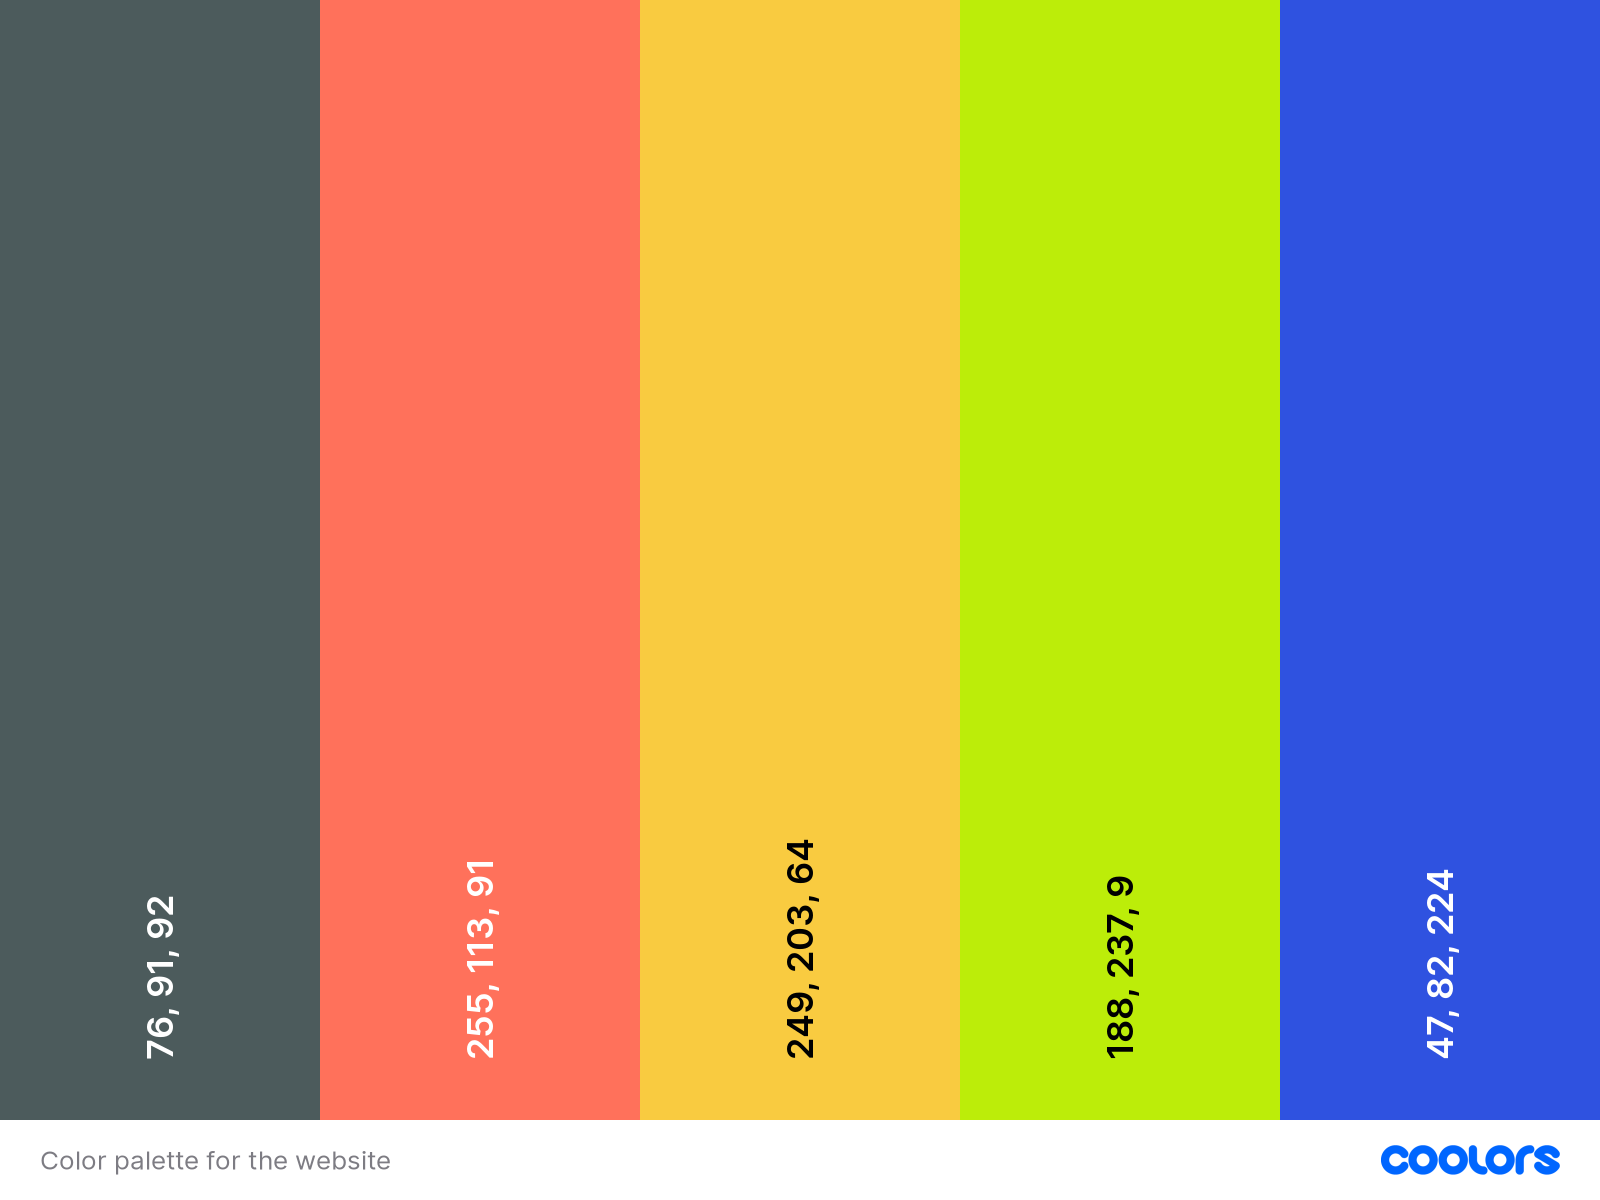
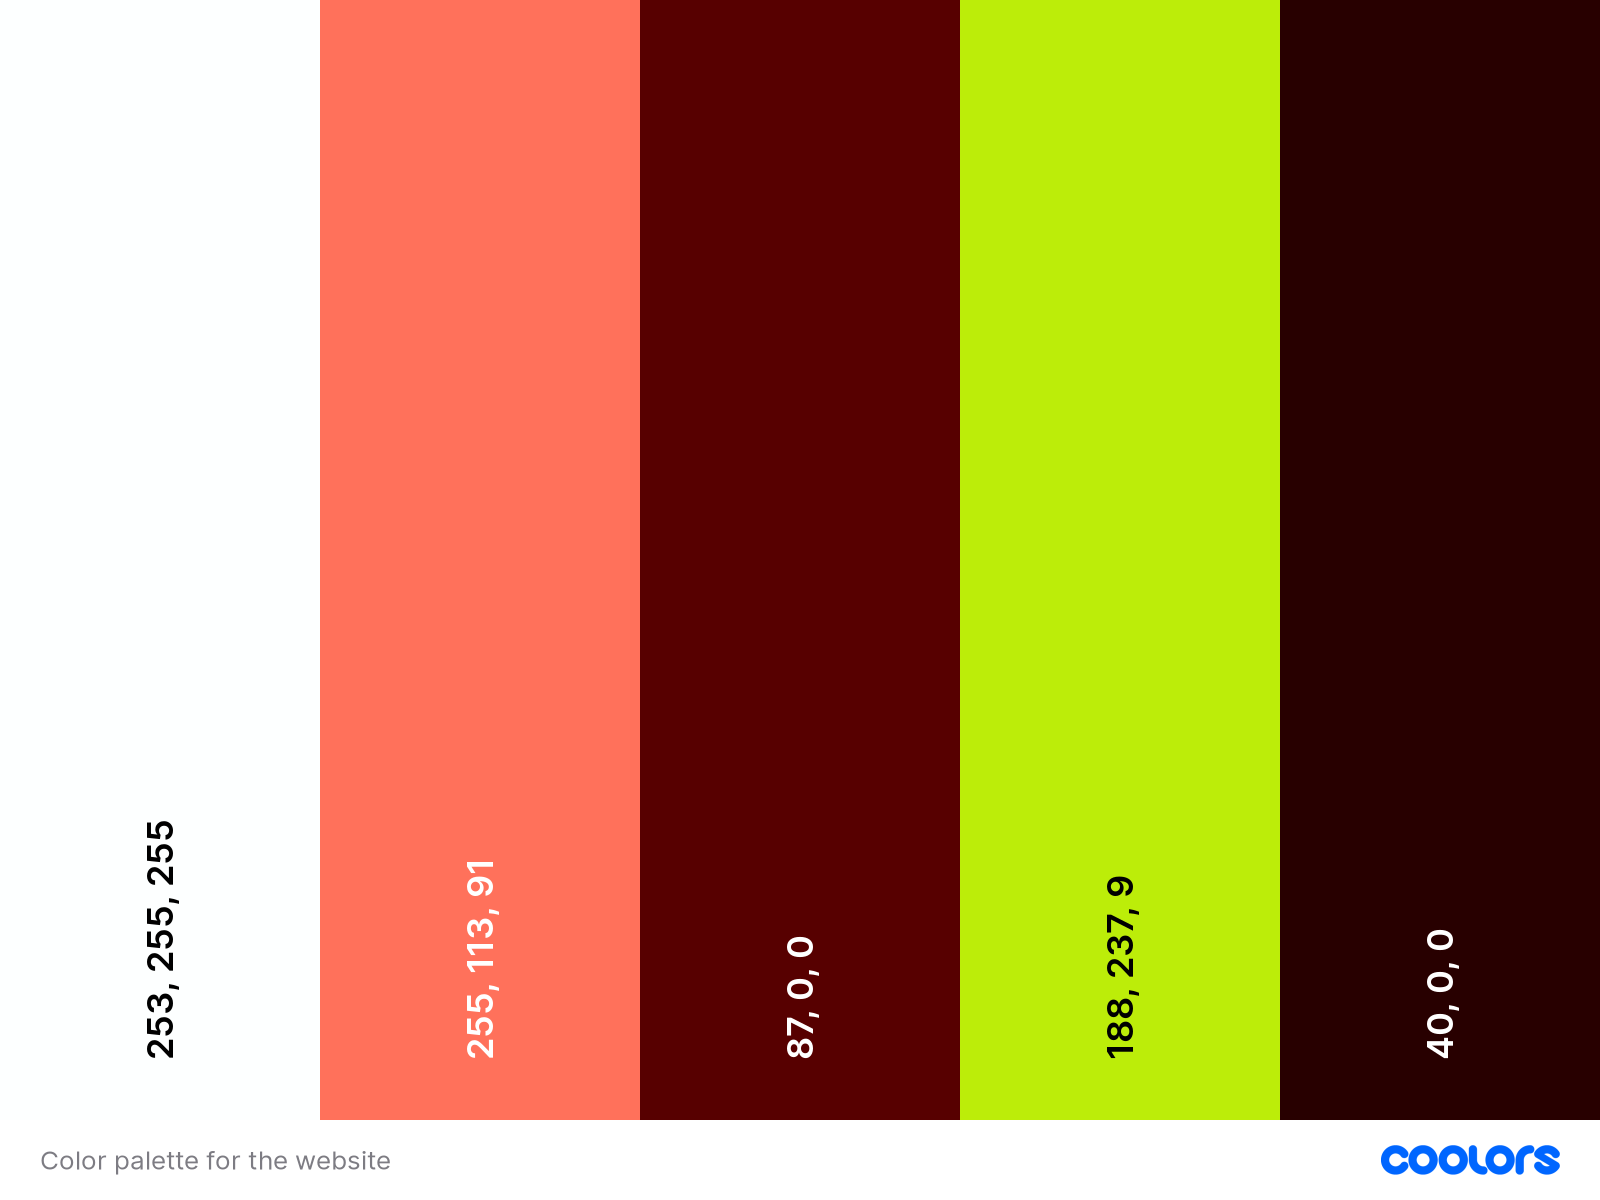
Create custom card and update color palette

diff --git a/src/Components/Body/FoodList.jsx b/src/Components/Body/FoodList.jsx
@@ -5,13 +5,13 @@ import styles from './FoodList.module.css'
 import $ from 'jquery';
 import { useCallback } from 'react';
 import parse from 'html-react-parser'
+import CustomCard from '../UI/CustomCard';
 
 function FoodList() {
-    const [data, setData]= useState([]);
+    const [data, setData]= useState({});
     const [isLoading, setIsLoading] = useState(false);
     const API_KEY = "0ecccc5ef7754191ab8b6bd26d0dd5da";
-    const fetchData = useCallback(()=>{
-        // let response = $.get("https://api.spoonacular.com/recipes/complexSearch", {apiKey: API_KEY, })
+    const fetchData = useCallback(async ()=>{
         $.ajax({
                 url: "https://api.spoonacular.com/recipes/complexSearch", 
                 data: {
@@ -24,8 +24,7 @@ function FoodList() {
                 dataType: 'json',
             })
     }, [])
-    const fetchInformation = useCallback((id)=>{
-        // let response = $.get("https://api.spoonacular.com/recipes/complexSearch", {apiKey: API_KEY, })
+    const fetchInformation = useCallback(async (id)=>{
         $.ajax({
                 url: `https://api.spoonacular.com/recipes/${id}/information`, 
                 data: {
@@ -64,18 +63,13 @@ function FoodList() {
         // let test =fetchInformation(retrievedData.results[0].id) ;
         // setData(test);
     }
+    const convertSummary = (text) =>{
+        let parseText
+    }
     const list = <div className={`${styles.list}`}>
                     {/* list goes here */}
                     {/* <p>{data.title}</p> */}
-                    <Card>
-                    <Card.Img variant="top" src={data.image} />
-                    <Card.Body>
-                        <Card.Title>{data.title}</Card.Title>
-                        <Card.Text>{data.price}</Card.Text>
-                        <Card.Text>{parse(data.summary)}</Card.Text>
-                        <Button variant="primary">Add to cart</Button>
-                    </Card.Body>
-                    </Card>
+                    <CustomCard data = {data}></CustomCard>
                 </div>
   return (
     <Container className='pt-5'>

diff --git a/src/Components/UI/CustomCard.jsx b/src/Components/UI/CustomCard.jsx
@@ -1,0 +1,22 @@
+import React from 'react'
+import { Container, Card, Button } from 'react-bootstrap'
+import styles from "./CustomCard.module.css"
+function CustomCard(props) {
+  return (
+    <Card className='col-3'>
+        <Card.Img variant="top" src={props.data.image} />
+        <Card.Body>
+            <Card.Title>{props.data.title}</Card.Title>
+            
+            {/* {data.id && <Card.Text>{parse(data.summary)}</Card.Text>} */}
+            <Container fluid className='d-flex justify-content-between align-items-center' >
+              <Button className={styles.button}>Add to cart</Button>
+              <Card.Text className={`${styles.price} d-inline-block fs-5 fw-bold fst-italic`}>${props.data.pricePerServing}</Card.Text>
+            </Container>
+            
+        </Card.Body>
+    </Card>
+  )
+}
+
+export default CustomCard

diff --git a/src/Components/UI/CustomCard.module.css b/src/Components/UI/CustomCard.module.css
@@ -1,0 +1,13 @@
+.button{
+    background-color: rgb(87,0,0)!important;
+    border-color: rgb(126, 1, 1)!important;
+}
+
+.button:active, .button:hover, .button:focus{
+    background-color: rgb(126, 1, 1)!important;
+    
+}
+
+.price{
+    color: rgb(40,0,0);
+}

diff --git a/README.md b/README.md
@@ -27,3 +27,7 @@ Turn out jQuery might be unnecessary as React has all the tools already.
 - Finish yesterday work
 - Need more research on useCallBack
 - Installed html-react-parser to convert a string to HTML, I wonder if there is a manual way to do this cuz I don't wanna install to many libraries just to use one function .-.
+
+### 22-12-2022:
+- Comment out the summary, it's longer than we expected
+- 
